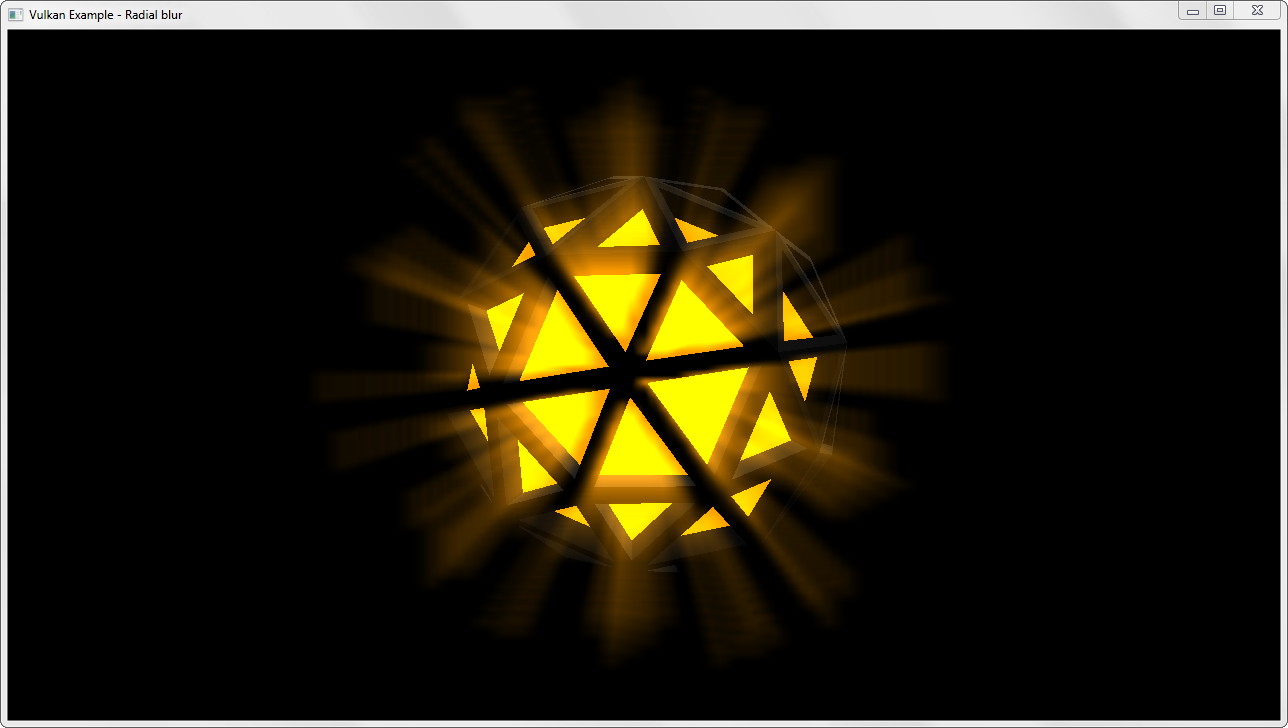
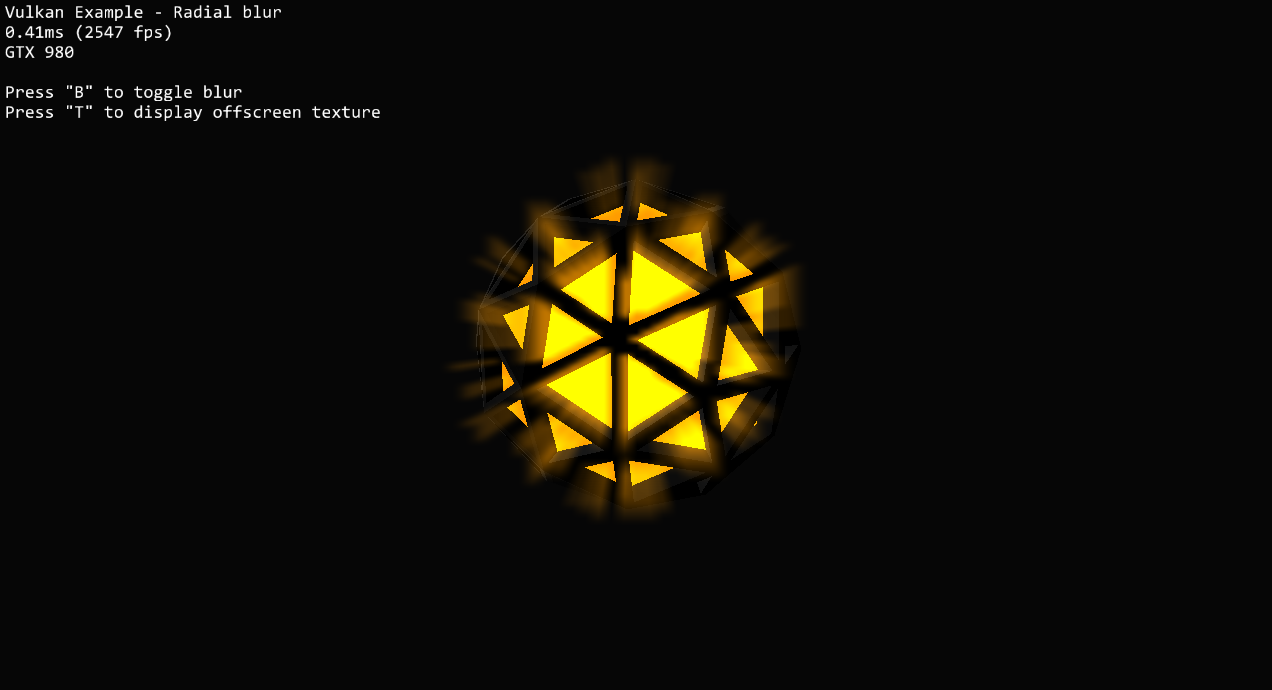
Update screenshots and descriptions for offscreen rendering examples

Changed region(s): [[0.2759, 0.1217, 0.7358, 0.8826], [0.0, 0.0, 1.0, 1.0], [0.5519, 0.1826, 0.5825, 0.213]]

diff --git a/README.md b/README.md
@@ -143,13 +143,17 @@ Shows how to use occlusion queries to determine object visibility depending on t
 ## [Offscreen rendering](offscreen/)
 <img src="./screenshots/basic_offscreen.jpg" height="96px" align="right">
 
-Uses a separate framebuffer (that is not part of the swap chain) and a texture target for offscreen rendering. The texture is then used as a mirror.
+Shows how to do basic offscreen rendering. Uses a separate framebuffer with color and depth attachments (that is not part of the swap chain) to render the mirrored scene off screen in the first pass.
+
+The second pass then samples from the color attachment of that framebuffer for rendering a mirror surface.
 <br><br>
 
 ## [Radial blur](radialblur/)
 <img src="./screenshots/radial_blur.png" height="96px" align="right">
 
-Demonstrates basic usage of fullscreen shader effects. The scene is rendered offscreen first, gets blitted to a texture target and for the final draw this texture is blended on top of the 3D scene with a radial blur shader applied.
+Demonstrates basic usage of fullscreen shader effects. The scene is rendered into a low resolution offscreen framebuffer first.
+
+After rendering the object the second pass then blends a full screen quad on top of the scene, sampling from the color attachment of the offscreen framebuffer ti implement a radial blur.
 <br><br>
 
 ## [Bloom](bloom/)
@@ -178,8 +182,9 @@ To avoid shadow artifacts the dynamic depth bias state ([vkCmdSetDepthBias](http
 ## [Omnidirectional shadow mapping](shadowmappingomni/)
 <img src="./screenshots/shadow_omnidirectional.png" height="96px" align="right">
 
-Uses a dynamic 32 bit floating point cube map for a point light source that casts shadows in all directions (unlike projective shadow mapping).
-The cube map faces contain the distances from the light sources, which are then used in the scene rendering pass to determine if the fragment is shadowed or not.
+Shows how to implement dynamic shadows from a point light source. Uses a dynamic 32 bit floating point cube map for a point light source that casts shadows in all directions (unlike projective shadow mapping).
+
+The cube map faces contain the distances from the light sources, which are then used in the final scene rendering pass to determine if the fragment is shadowed or not.
 <br><br>
 
 ## [Spherical environment mapping](sphericalenvmapping/)
